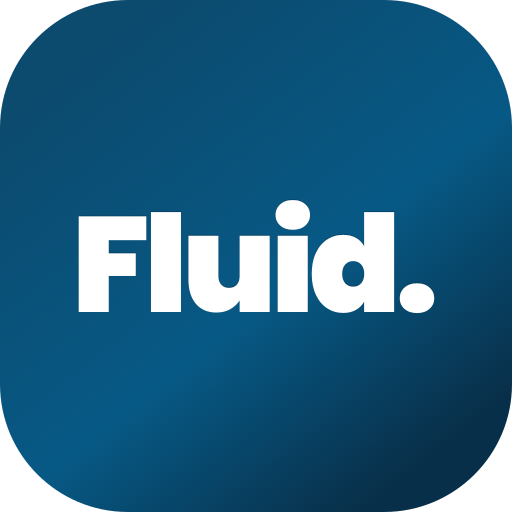
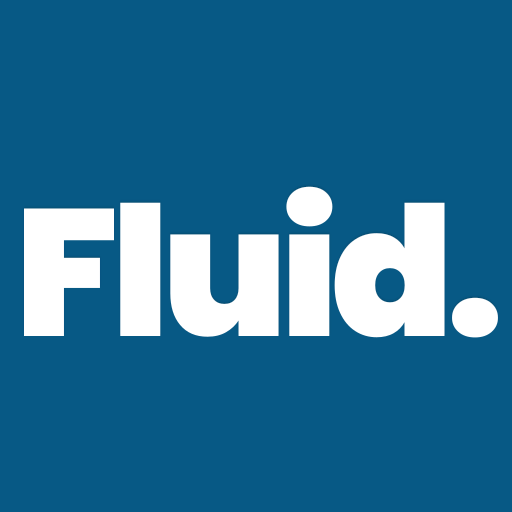
Fix notification quick add behavior

diff --git a/src/app/page.tsx b/src/app/page.tsx
@@ -121,6 +121,52 @@ const STREAK_WINDOW_SIZE = 5;
 const STREAK_SHIELD_COUNT = 2;
 const STREAK_DAY_FORMATTER = new Intl.DateTimeFormat("en", { weekday: "short" });
 const HYDRATION_NOTE_VALUES = new Set<string>(HYDRATION_NOTES);
+const NOTIFICATION_ACTION_DB = "fluid-notification-actions";
+const NOTIFICATION_ACTION_STORE = "pending-actions";
+
+type PendingNotificationAction = {
+  id: string;
+  amount: number;
+  note?: string;
+  createdAt?: number;
+};
+
+function openNotificationActionDb(): Promise<IDBDatabase> {
+  return new Promise((resolve, reject) => {
+    const request = indexedDB.open(NOTIFICATION_ACTION_DB, 1);
+
+    request.onupgradeneeded = () => {
+      request.result.createObjectStore(NOTIFICATION_ACTION_STORE, { keyPath: "id" });
+    };
+    request.onsuccess = () => resolve(request.result);
+    request.onerror = () => reject(request.error);
+  });
+}
+
+async function takePendingNotificationActions() {
+  if (typeof indexedDB === "undefined") return [];
+
+  const db = await openNotificationActionDb();
+
+  try {
+    return await new Promise<PendingNotificationAction[]>((resolve, reject) => {
+      const transaction = db.transaction(NOTIFICATION_ACTION_STORE, "readwrite");
+      const store = transaction.objectStore(NOTIFICATION_ACTION_STORE);
+      const request = store.getAll();
+      let actions: PendingNotificationAction[] = [];
+
+      request.onsuccess = () => {
+        actions = request.result as PendingNotificationAction[];
+        store.clear();
+      };
+      request.onerror = () => reject(request.error);
+      transaction.oncomplete = () => resolve(actions);
+      transaction.onerror = () => reject(transaction.error);
+    });
+  } finally {
+    db.close();
+  }
+}
 
 function formatLogTime(timestamp: number) {
   return new Intl.DateTimeFormat("en", {
@@ -635,6 +681,21 @@ export default function Home() {
   const favoritePointerStartRef = React.useRef<{ x: number; y: number } | null>(null);
   const favoriteGestureCancelledRef = React.useRef(false);
 
+  const applyNotificationAction = React.useCallback(
+    (action: PendingNotificationAction) => {
+      const amount = Number(action.amount);
+      const note = action.note && HYDRATION_NOTE_VALUES.has(action.note) ? (action.note as HydrationNote) : "water";
+
+      if (!Number.isFinite(amount) || amount <= 0) return;
+
+      addDrink(Math.min(5000, Math.round(amount)), note);
+      if (note === "workout") {
+        startWorkoutSession();
+      }
+    },
+    [addDrink, startWorkoutSession]
+  );
+
   useLockedPageScroll(isDailyLogOpen || isOnboardingOpen);
 
   React.useEffect(() => {
@@ -703,6 +764,37 @@ export default function Home() {
     }
     window.history.replaceState(null, "", `${window.location.pathname}${window.location.hash}`);
   }, [addDrink, mounted, startWorkoutSession]);
+
+  React.useEffect(() => {
+    if (!mounted || typeof navigator === "undefined" || !("serviceWorker" in navigator)) return;
+
+    const handleMessage = (event: MessageEvent) => {
+      const payload = event.data as Partial<PendingNotificationAction> & { type?: string };
+
+      if (payload?.type !== "fluid:add-drink" || !payload.id) return;
+
+      applyNotificationAction({
+        id: payload.id,
+        amount: Number(payload.amount),
+        note: typeof payload.note === "string" ? payload.note : undefined,
+        createdAt: typeof payload.createdAt === "number" ? payload.createdAt : undefined,
+      });
+    };
+
+    navigator.serviceWorker.addEventListener("message", handleMessage);
+
+    takePendingNotificationActions()
+      .then((actions) => {
+        actions.forEach(applyNotificationAction);
+      })
+      .catch((err) => {
+        console.error("Failed to apply pending notification actions", err);
+      });
+
+    return () => {
+      navigator.serviceWorker.removeEventListener("message", handleMessage);
+    };
+  }, [applyNotificationAction, mounted]);
 
   const clearFavoriteHoldTimer = React.useCallback(() => {
     if (favoriteHoldTimerRef.current === null || typeof window === "undefined") return;

diff --git a/public/fluid-notifications-sw.js b/public/fluid-notifications-sw.js
@@ -12,20 +12,66 @@ self.addEventListener("fetch", (event) => {
   event.respondWith(fetch(event.request));
 });
 
+const HYDRATION_ACTION_DB = "fluid-notification-actions";
+const HYDRATION_ACTION_STORE = "pending-actions";
+
+function openHydrationActionDb() {
+  return new Promise((resolve, reject) => {
+    const request = indexedDB.open(HYDRATION_ACTION_DB, 1);
+
+    request.onupgradeneeded = () => {
+      request.result.createObjectStore(HYDRATION_ACTION_STORE, { keyPath: "id" });
+    };
+    request.onsuccess = () => resolve(request.result);
+    request.onerror = () => reject(request.error);
+  });
+}
+
+async function queueHydrationAction(action) {
+  const db = await openHydrationActionDb();
+
+  await new Promise((resolve, reject) => {
+    const transaction = db.transaction(HYDRATION_ACTION_STORE, "readwrite");
+    transaction.objectStore(HYDRATION_ACTION_STORE).put(action);
+    transaction.oncomplete = () => resolve();
+    transaction.onerror = () => reject(transaction.error);
+  });
+
+  db.close();
+}
+
 self.addEventListener("notificationclick", (event) => {
   event.notification.close();
 
   const addActionMatch = typeof event.action === "string" ? event.action.match(/^add-(\d+)(?:-([a-z-]+))?$/) : null;
   const fallbackPath = typeof event.notification.data?.url === "string" ? event.notification.data.url : "/";
-  const actionPath = addActionMatch
-    ? `/?quickAdd=${encodeURIComponent(addActionMatch[1])}${
-        addActionMatch[2] ? `&quickAddNote=${encodeURIComponent(addActionMatch[2])}` : ""
-      }`
-    : fallbackPath;
-  const actionUrl = new URL(actionPath, self.registration.scope).href;
 
   event.waitUntil(
     self.clients.matchAll({ type: "window", includeUncontrolled: true }).then(async (clientList) => {
+      if (addActionMatch) {
+        const action = {
+          id: `${Date.now()}-${Math.random().toString(16).slice(2)}`,
+          amount: Number(addActionMatch[1]),
+          note: addActionMatch[2] || "water",
+          createdAt: Date.now(),
+        };
+
+        if (clientList.length > 0) {
+          clientList.forEach((client) => {
+            client.postMessage({ type: "fluid:add-drink", ...action });
+          });
+          return undefined;
+        }
+
+        await queueHydrationAction(action);
+        return undefined;
+      }
+
+      const openUrl = new URL(fallbackPath, self.registration.scope);
+      openUrl.searchParams.delete("quickAdd");
+      openUrl.searchParams.delete("quickAddNote");
+      const actionUrl = openUrl.href;
+
       for (const client of clientList) {
         if ("focus" in client) {
           if ("navigate" in client) {
@@ -62,7 +108,7 @@ self.addEventListener("push", (event) => {
   const data =
     payload.data && typeof payload.data === "object"
       ? payload.data
-      : { url: actionAmount ? `/?quickAdd=${encodeURIComponent(actionAmount)}` : "/" };
+      : { url: "/" };
 
   const options = {
     badge: "/fluid-notification-badge.png",

diff --git a/src/hooks/useNotifications.ts b/src/hooks/useNotifications.ts
@@ -231,20 +231,10 @@ async function showSystemNotification({
   actionAmount?: number;
   actionNote?: HydrationNote;
 }) {
-  const quickAddParams = new URLSearchParams();
-
-  if (actionAmount) {
-    quickAddParams.set("quickAdd", actionAmount.toString());
-  }
-
-  if (actionAmount && actionNote) {
-    quickAddParams.set("quickAddNote", actionNote);
-  }
-
   const options: FluidNotificationOptions = {
     badge: NOTIFICATION_BADGE_PATH,
     body,
-    data: { url: actionAmount ? `/?${quickAddParams.toString()}` : "/" },
+    data: { url: "/" },
     icon: NOTIFICATION_ICON_PATH,
     tag,
     renotify: true,

diff --git a/src/app/layout.tsx b/src/app/layout.tsx
@@ -29,7 +29,7 @@ export const metadata: Metadata = {
     telephone: false,
   },
   other: {
-    "theme-color": "#0a5b84",
+    "theme-color": "#075985",
     "mobile-web-app-capable": "yes",
     "apple-mobile-web-app-capable": "yes",
     "apple-mobile-web-app-status-bar-style": "black-translucent",
@@ -42,7 +42,7 @@ export const viewport: Viewport = {
   initialScale: 1,
   viewportFit: "cover",
   interactiveWidget: "resizes-content",
-  themeColor: "#0a5b84",
+  themeColor: "#075985",
   colorScheme: "dark",
 };
 

diff --git a/src/app/manifest.ts b/src/app/manifest.ts
@@ -10,8 +10,8 @@ export default function manifest(): MetadataRoute.Manifest {
     scope: "/",
     display: "standalone",
     orientation: "portrait-primary",
-    background_color: "#0a5b84",
-    theme_color: "#0a5b84",
+    background_color: "#075985",
+    theme_color: "#075985",
     categories: ["health", "fitness", "lifestyle"],
     icons: [
       {
